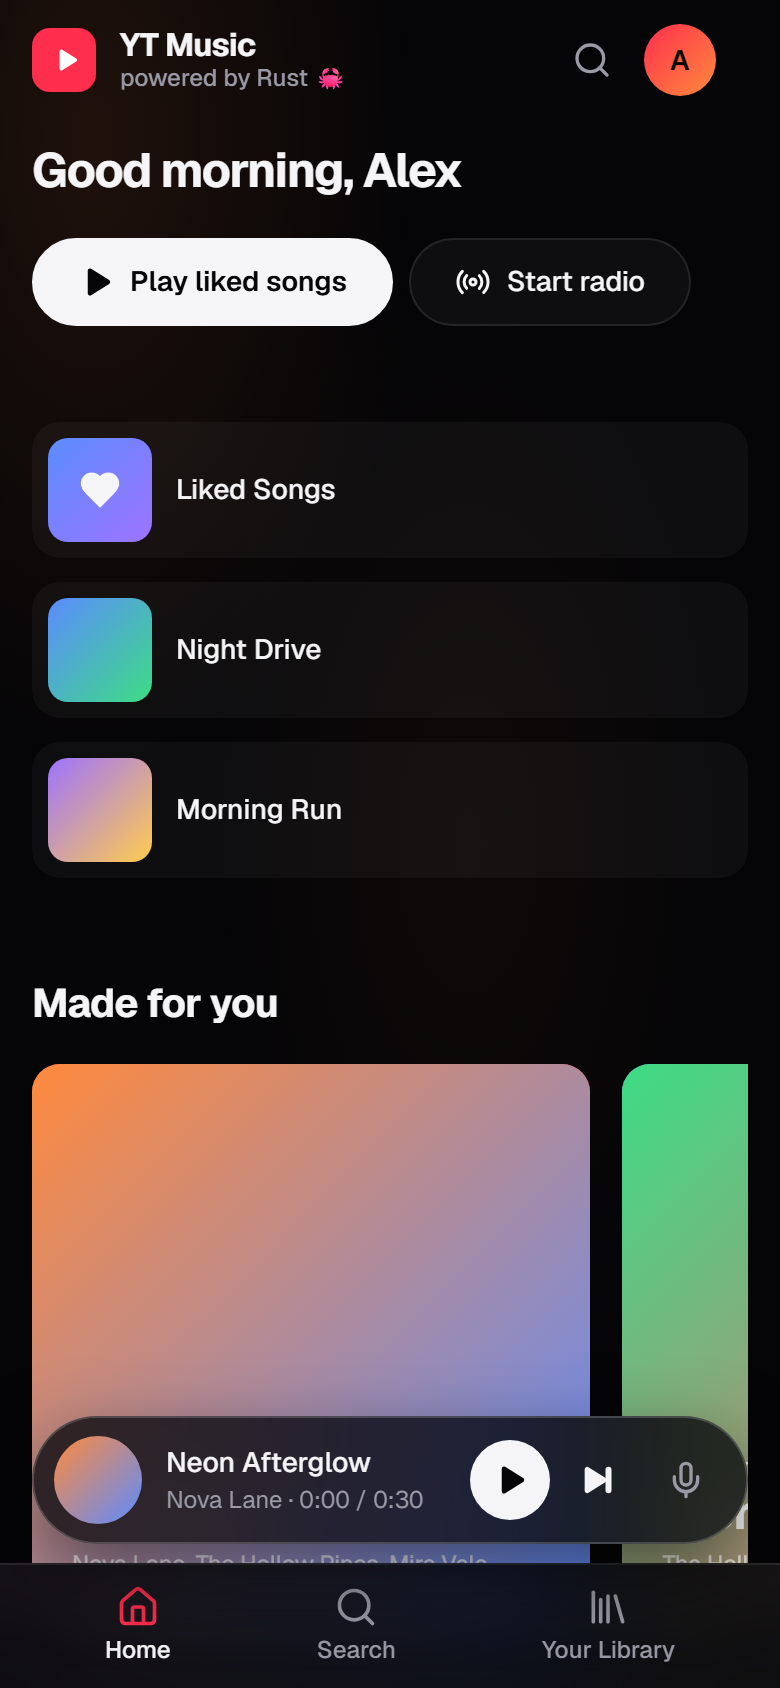
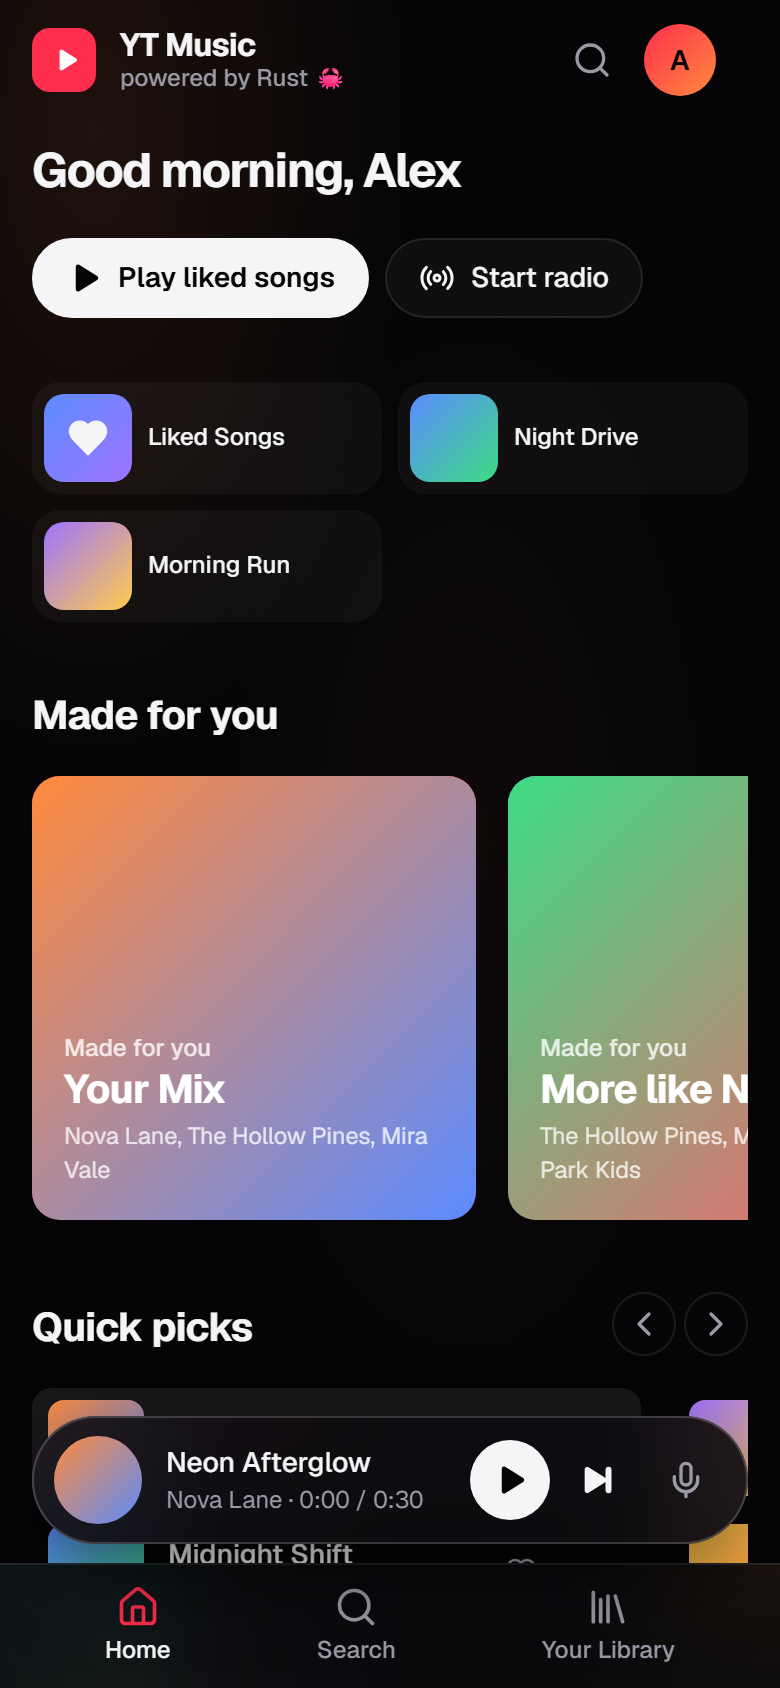
Phone home denser; fresh phone screenshot; fix media.rs &str types

diff --git a/ui/styles.css b/ui/styles.css
@@ -721,3 +721,14 @@ body.paused .stage-art { transform: scale(.94); filter: saturate(.85); }
 .brand-text { align-items: flex-start; }
 .brand-mark { width: 32px; height: 32px; border-radius: 9px; }
 .brand-mark .ic { width: 14px; height: 14px; margin-left: 2px; }
+/* phone: denser home — quick access in two columns, smaller mix cards */
+@media (max-width: 760px) {
+  .quick { grid-template-columns: repeat(2, minmax(0, 1fr)); gap: var(--s2); }
+  .quick-item { padding: 6px; gap: var(--s2); font-size: var(--fs-caption); }
+  .quick-item img, .quick-item .qc { width: 44px; height: 44px; }
+  .home-head .actions .pill-btn.big { height: 40px; padding: 0 16px; }
+  .mixes { grid-auto-columns: 62%; }
+  .mix-card { padding: var(--s4); }
+  .mix-card b { font-size: var(--fs-heading); }
+  .page { gap: 32px; }
+}

diff --git a/src-tauri/src/media.rs b/src-tauri/src/media.rs
@@ -91,10 +91,10 @@ pub fn update(app: &AppHandle, np: Option<NowPlaying>) {
                 return;
             };
             let _ = controls.set_metadata(MediaMetadata {
-                title: Some(&np.title),
-                artist: Some(&np.artist),
-                album: Some(&np.album).filter(|a| !a.is_empty()),
-                cover_url: Some(&np.cover).filter(|u| u.starts_with("https://")),
+                title: Some(np.title.as_str()),
+                artist: Some(np.artist.as_str()),
+                album: Some(np.album.as_str()).filter(|a| !a.is_empty()),
+                cover_url: Some(np.cover.as_str()).filter(|u| u.starts_with("https://")),
                 duration: Some(Duration::from_millis(np.duration_ms)).filter(|d| !d.is_zero()),
             });
             let progress = Some(MediaPosition(Duration::from_millis(np.position_ms)));
